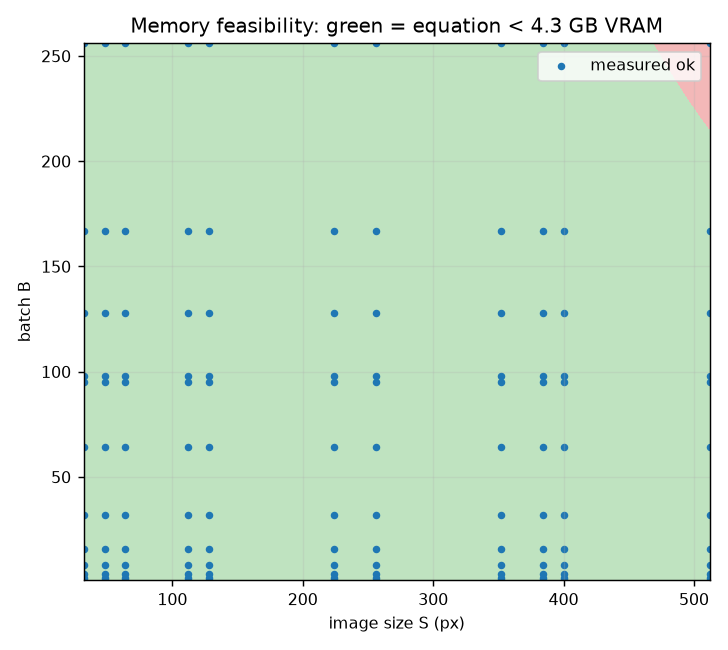
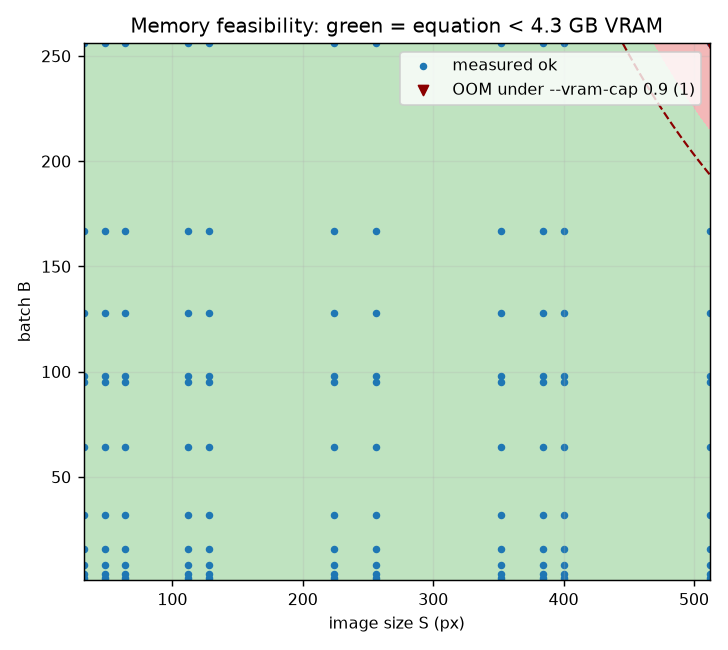
README/графики: уточнения ревьюера + эксперимент с --vram-cap 0.9
- наклон log T от log S: ~2 в memory/compute-bound, ~0 в launch-bound (уточнение)
- проценты памяти: медиана/10-й/90-й процентили вместо «диапазона»
- «параллельная» -> «аналитическая» нижняя граница
- новый results/measurements_vramcap.csv: 131 ok / 1 OOM (512,256) —
  ровно тот конфиг, что уравнение предсказывает выше линии 0.9xVRAM
- oom_boundary.png: пунктир 0.9xVRAM + фактическая OOM эксперимента

Changed region(s): [[0.544, 0.0615, 0.967, 0.2154], [0.9368, 0.2154, 0.967, 0.2462]]

diff --git a/make_figures.py b/make_figures.py
@@ -229,6 +229,17 @@ def main():
     om = df[df.status == "OOM"]
     if len(om):
         ax.scatter(om.S, om.B, s=18, marker="x", color="k", label="measured OOM")
+    # OOM rows recorded under the artificial --vram-cap 0.9 experiment
+    # (results/measurements_vramcap.csv, if present)
+    if os.path.exists("results/measurements_vramcap.csv"):
+        dvc = pd.read_csv("results/measurements_vramcap.csv")
+        ovc = dvc[dvc["latency_s"].astype(str) == "OOM"]
+        # dashed line: the 0.9xVRAM software cap used by that experiment
+        ax.contour(SS, BB, P, levels=[vram * 0.9], colors="darkred",
+                   linewidths=1.2, linestyles="--")
+        if len(ovc):
+            ax.scatter(ovc.S, ovc.B, s=30, marker="v", color="darkred",
+                       label=f"OOM under --vram-cap 0.9 ({len(ovc)})")
     ax.set(xlabel="image size S (px)", ylabel="batch B",
            title=f"Memory feasibility: green = equation < {vram/1000:.1f} GB VRAM")
     ax.legend()
